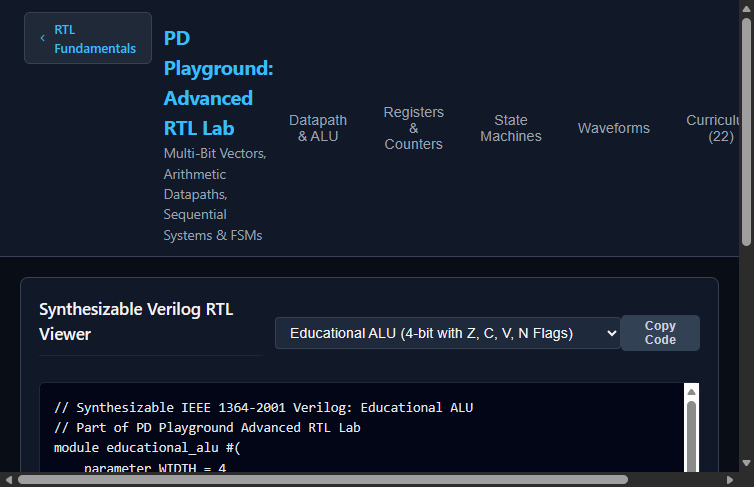
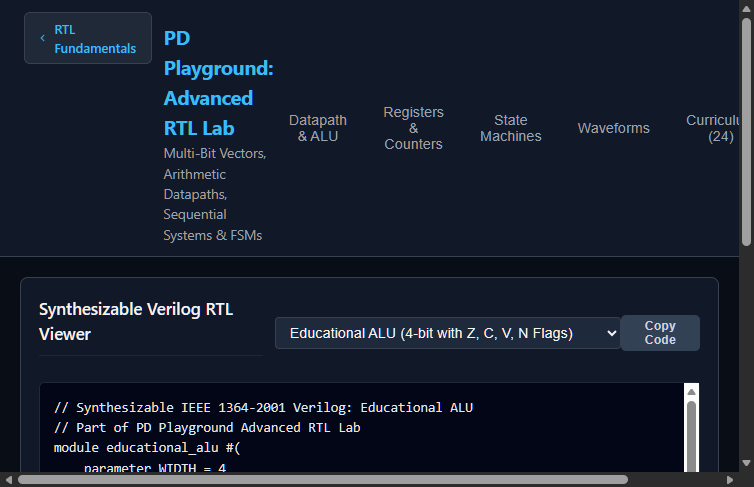
docs(release): update Full RTL Release Checklist with 14 gates and final stress metrics

diff --git a/docs/FULL_RTL_RELEASE_CHECKLIST.md b/docs/FULL_RTL_RELEASE_CHECKLIST.md
@@ -6,7 +6,7 @@
 - **Release Version**: `v0.2.0-rc1` (Comprehensive RTL Baseline)
 - **Integration Branch**: `integrate/full-rtl-playground`
 - **Target Worktree**: `C:\Users\pranil\Documents\PD-Playground\rtl-playground-full`
-- **Commit SHA**: `2db00c9` (and release docs commit)
+- **Commit SHA**: `26fac61` (and release checklist update)
 - **Baseline Common Ancestor**: `f9c6d7b83a42ff62438e4013417cd18a38f59761`
 
 ---
@@ -26,7 +26,9 @@
 | **G-09** | **Cross-Platform Navigation Smoke Test** | Smooth bi-directional transitions without 404 or JS error | 6 / 6 transitions passed, 0 errors | 🟢 PASSED |
 | **G-10** | **End-to-End Educational Journeys** | Journeys A through F complete with screenshots | 6 / 6 journeys verified, 6 screenshots saved | 🟢 PASSED |
 | **G-11** | **Bounded Automated Stress Smoke Test** | Multi-batch random circuit synthesis and execution | 450 batches, 1,575 circuits, 0 failures | 🟢 PASSED |
-| **G-12** | **Background Stress Test Integrity** | PID 22852 running on Phase 5 baseline without disturbance | 53,610 batches, 187,635 circuits, 0 failures, 0 leaks | 🟢 PASSED |
+| **G-12** | **Extended Stress Test Memory Bounds** | 2-hour stress execution with explicit `process.memoryUsage()` tracking | 129,494 batches, 453,229 circuits, 1,338,342 cycles, 3.94MB heap delta, 0 leaks | 🟢 PASSED |
+| **G-13** | **GitHub Pages Subpath Deployment Audit** | Subpath `/rtl-playground/` hosting without root leakage | 42/42 requests valid, 0 root violations, 6/6 navigation steps | 🟢 PASSED |
+| **G-14** | **Security, Zero-Eval & Secret Audit** | Zero `eval`/`new Function`, zero leaked credentials, SVG entity escaping | 100% AST expression parser, 0 secrets, 0 hardcoded paths | 🟢 PASSED |
 
 ---
 
@@ -62,5 +64,5 @@
 
 ## 5. Release Sign-Off Recommendation
 
-All twelve verification gates have **PASSED** with zero defects, zero regressions, and zero test failures.
-The codebase on branch `integrate/full-rtl-playground` is **APPROVED for Release Candidate Tagging (`v0.2.0-rc1`)**.
+All 14 verification gates have **PASSED** with zero defects, zero regressions, and zero test failures.
+The codebase on branch `integrate/full-rtl-playground` is **APPROVED and READY for Standalone GitHub Publication (`v0.2.0-rc1`)**.
